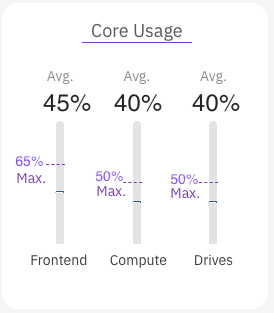
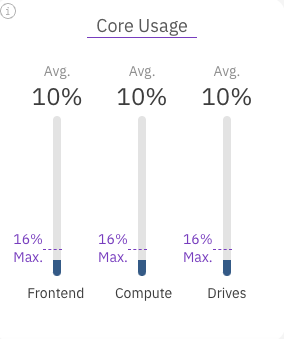
GitBook: [#23] Separate GUI and CLI procedures (and replaced core usage image)

diff --git a/getting-started-with-weka/manage-the-system-using-the-weka-cli.md b/getting-started-with-weka/manage-the-system-using-the-weka-cli.md
@@ -5,7 +5,7 @@ description: >-
   check the status of the cluster.
 ---
 
-# Manage the system using Weka CLI
+# Manage the system using the Weka CLI
 
 The Weka CLI is installed on each Weka host and is available through the `weka` command. It's possible to connect to any of the hosts using `ssh` and running the `weka` command. The `weka` command displays a list of all top-level commands.
 
@@ -68,7 +68,7 @@ The options that are common to many commands include:
 | `-C\|--CONNECT-TIMEOUT` | Modifies the default timeout used for connecting to the system via the JRPC protocol.                                             |
 | `-T\|--TIMEOUT`         | Modifies the default timeout for which the commands wait for a response before giving up.                                         |
 
-## Command hierarchy
+## Commands hierarchy
 
 Most Weka system top-level commands are the default list command for their own collection. Additional sub-commands may be available under them.
 
@@ -160,17 +160,17 @@ The `weka status` command displays the overall status of the Weka system.
 
 ```
 $ weka status
-WekaIO v4.0.1.1436-c9838b634494aeb70e7a5d5471ad4aae (CLI build 4.0.1-1955cd2e4b78dbf9ef265c434c670cb6)
+WekaIO v4.0.0 (CLI build 4.0.0)
 
-       cluster: ariattias (b231e060-c5c1-421d-a68d-1dfa94ff149b)
-        status: OK (5 backends UP, 5 drives UP)
-    protection: 3+2
-     hot spare: 1 failure domains (238.61 GiB)
- drive storage: 954.11 GiB total
+       cluster: WekaProd (b231e060-c5c1-421d-a68d-1dfa94ff149b)
+        status: OK (8 backends UP, 48 drives UP)
+    protection: 6+2
+     hot spare: 1 failure domains (1.23 TiB)
+ drive storage: 82.94 TiB total
          cloud: connected
        license: OK, valid thru 2022-06-15T11:10:39Z
 
-     io status: STARTED 2 minutes ago (5 io-nodes UP, 80 Buckets UP)
+     io status: STARTED 2 minutes ago (8 io-nodes UP, 80 Buckets UP)
     link layer: Ethernet
        clients: 0 connected
          reads: 0 B/s (0 IO/s)
@@ -179,23 +179,21 @@ WekaIO v4.0.1.1436-c9838b634494aeb70e7a5d5471ad4aae (CLI build 4.0.1-1955cd2e4b7
         alerts: none
 ```
 
-
-
-**Example: status of a system with one host failure (io status DEGRADED)**
+**Example: status of a system with one host failure (DEGRADED)**
 
 ```
    $ weka status
-WekaIO v4.0.1.1436-c9838b634494aeb70e7a5d5471ad4aae (CLI build 4.0.1-1955cd2e4b78dbf9ef265c434c670cb6)
+WekaIO v4.0.0 (CLI build 4.0.0)
 
-       cluster: ariattias (b231e060-c5c1-421d-a68d-1dfa94ff149b)
-        status: DEGRADED (4 backends UP, 4 drives UP)
-    protection: 3+2
-     hot spare: 1 failure domains (238.61 GiB)
- drive storage: 954.11 GiB total
+       cluster: WekaProd (b231e060-c5c1-421d-a68d-1dfa94ff149b)
+        status: DEGRADED (7 backends UP, 42 drives UP)
+    protection: 6+2
+     hot spare: 1 failure domains (1.23 TiB)
+ drive storage: 82.94 TiB total
          cloud: connected
        license: OK, valid thru 2022-06-15T11:10:39Z
 
-     io status: STARTED 2 minutes ago (5 io-nodes UP, 80 Buckets UP)
+     io status: STARTED 54 minutes ago (8 io-nodes UP, 80 Buckets UP)
                 Rebuild in progress (3%)
     link layer: Ethernet
        clients: 0 connected

diff --git a/SUMMARY.md b/SUMMARY.md
@@ -15,8 +15,8 @@
 ## Getting Started with Weka
 
 * [Quick Install Guide](getting-started-with-weka/quick-install-guide.md)
-* [Manage the system using Weka CLI](getting-started-with-weka/manage-the-system-using-weka-cli.md)
-* [Manage the system using Weka GUI](getting-started-with-weka/manage-the-system-using-weka-gui.md)
+* [Manage the system using the Weka CLI](getting-started-with-weka/manage-the-system-using-the-weka-cli.md)
+* [Manage the system using the Weka GUI](getting-started-with-weka/manage-the-system-using-the-weka-gui.md)
 * [Run first IOs with WekaFS](getting-started-with-weka/performing-the-first-io.md)
 * [Getting started with Weka REST API](getting-started-with-weka/getting-started-with-weka-rest-api.md)
 
@@ -27,7 +27,7 @@
   * [Planning a Weka System Installation](install/bare-metal/planning-a-weka-system-installation.md)
   * [Setting Up the Hosts](install/bare-metal/setting-up-the-hosts/README.md)
     * [SR-IOV Enablement](install/bare-metal/setting-up-the-hosts/sr-iov-enablement.md)
-  * [Obtain the Weka Software Installation Package](install/bare-metal/obtaining-the-weka-install-file.md)
+  * [Obtain the Weka software installation package](install/bare-metal/obtaining-the-weka-install-file.md)
   * [Weka System Installation Process Using the CLI](install/bare-metal/using-cli.md)
   * [Adding Clients](install/bare-metal/adding-clients-bare-metal.md)
 * [AWS Installation](install/aws/README.md)

diff --git a/getting-started-with-weka/manage-the-system-using-the-weka-gui.md b/getting-started-with-weka/manage-the-system-using-the-weka-gui.md
@@ -5,7 +5,7 @@ description: >-
   to the GUI, and system dashboard.
 ---
 
-# Manage the system using Weka GUI
+# Manage the system using the Weka GUI
 
 ## Weka GUI overview
 
@@ -71,7 +71,7 @@ The system dashboard opens.
 The initial default username and password are _admin_ and _admin_[.](../usage/security/user-management.md) In the first sign-in, Weka GUI enforces changing the admin password.
 {% endhint %}
 
-<mark style="color:purple;">**Related topics**</mark>
+**Related topics**
 
 [user-management.md](../usage/security/user-management.md "mention")
 
@@ -134,7 +134,7 @@ The bottom bar indicates the total SSD capacity available in the system, the pro
 
 This widget shows the average usage and the maximum load level of the Frontend, Compute, and Drive cores.
 
-![Core Usage widget](../.gitbook/assets/wmng\_dashboard\_Core\_Usage\_widget.png)
+![Core Usage widget](<../.gitbook/assets/wmng\_dashboard\_Core\_Usage\_widget (1).png>)
 
 ### Hardware widget
 
@@ -149,7 +149,7 @@ The hardware components include:
 
 ![Hardware widget](../.gitbook/assets/wmng\_dashboard\_Hardware\_widget.png)
 
-<mark style="color:purple;">**Related topics**</mark>
+**Related topics**
 
 <mark style="color:purple;">****</mark>[statistics](../usage/statistics/ "mention")<mark style="color:purple;">****</mark>
 

diff --git a/getting-started-with-weka/performing-the-first-io.md b/getting-started-with-weka/performing-the-first-io.md
@@ -88,7 +88,7 @@ new_fs on /mnt/weka type wekafs (rw,relatime,writecache,inode_bits=64,dentry_max
 ```
 
 {% hint style="info" %}
-**Note:** In AWS installation via the [self-service portal](https://start.weka.io/), the `default` filesystem is already mounted under `/mnt/weka`
+**Note:** In AWS installation via the [self-service portal](https://start.weka.io/), the `default` filesystem is already mounted under `/mnt/weka.`
 {% endhint %}
 
 For more information about mounting filesystems and mount options, refer to [Mounting Filesystems](../fs/mounting-filesystems.md#overview).
@@ -118,7 +118,7 @@ Filesystem ID | Filesystem Name | Group   | Used SSD (Data) | Used SSD (Meta) | 
 
 This has completed the sanity check that the Weka cluster is configured and IOs can be performed to it.
 
-## Validate the configuration-achieve the expected performance
+## Validate the configuration
 
 To make sure that the Weka cluster and the IT environment are well configured, more complex IO patterns and benchmark tests should be conducted using the FIO utility.
 

diff --git a/getting-started-with-weka/quick-install-guide.md b/getting-started-with-weka/quick-install-guide.md
@@ -149,11 +149,11 @@ Once the Weka system is installed, learn how to view, manage and operate it usin
 
 The Weka system supports a RESTful API. This is useful when automating the interaction with the Weka system and when integrating it into your workflows or monitoring systems.
 
-<mark style="color:purple;">**Related topics**</mark>
+**Related topics**
 
-[manage-the-system-using-weka-cli.md](manage-the-system-using-weka-cli.md "mention")
+[manage-the-system-using-the-weka-cli.md](manage-the-system-using-the-weka-cli.md "mention")
 
-[manage-the-system-using-weka-gui.md](manage-the-system-using-weka-gui.md "mention")
+[manage-the-system-using-the-weka-gui.md](manage-the-system-using-the-weka-gui.md "mention")
 
 [performing-the-first-io.md](performing-the-first-io.md "mention")
 
